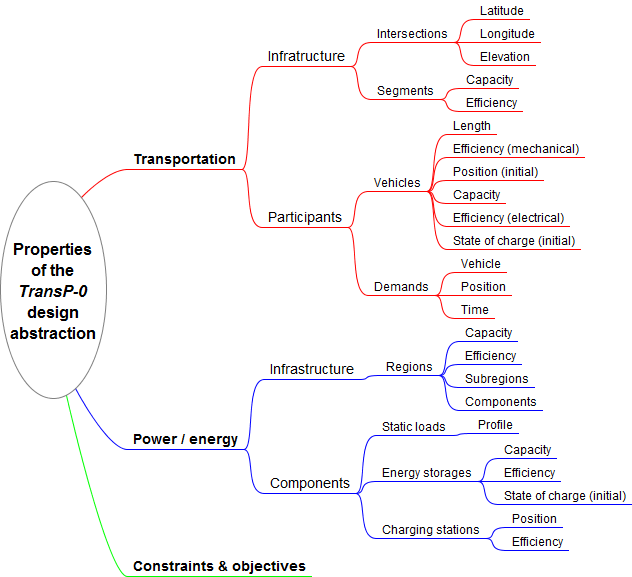
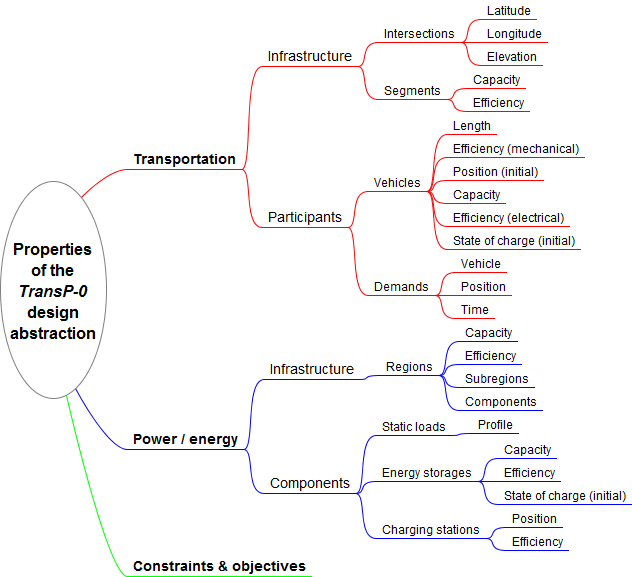
minor fix

Changed region(s): [[0.5712, 0.0, 0.8718, 0.1872], [0.4509, 0.0936, 0.5712, 0.1248], [0.5712, 0.0624, 0.6013, 0.0936]]

diff --git a/papers/ITSC-2016/gfx/system_design.mm b/papers/ITSC-2016/gfx/system_design.mm
@@ -22,13 +22,12 @@
       abstraction
     </p>
   </body>
-</html>
-</richcontent>
+</html></richcontent>
 <font BOLD="true" NAME="SansSerif" SIZE="16"/>
 <node CREATED="1465211008304" ID="ID_1610327320" MODIFIED="1465212431869" POSITION="right" TEXT="Transportation">
 <edge COLOR="#ff0000"/>
 <font BOLD="true" NAME="SansSerif" SIZE="14"/>
-<node CREATED="1465211038886" ID="ID_263007581" MODIFIED="1465212420039" TEXT="Infratructure">
+<node CREATED="1465211038886" ID="ID_263007581" MODIFIED="1465301186577" TEXT="Infrastructure">
 <font NAME="SansSerif" SIZE="14"/>
 <node CREATED="1465211068814" ID="ID_1028247808" MODIFIED="1465211078458" TEXT="Intersections">
 <node CREATED="1465211238821" ID="ID_1797920004" MODIFIED="1465211249201" TEXT="Latitude"/>
